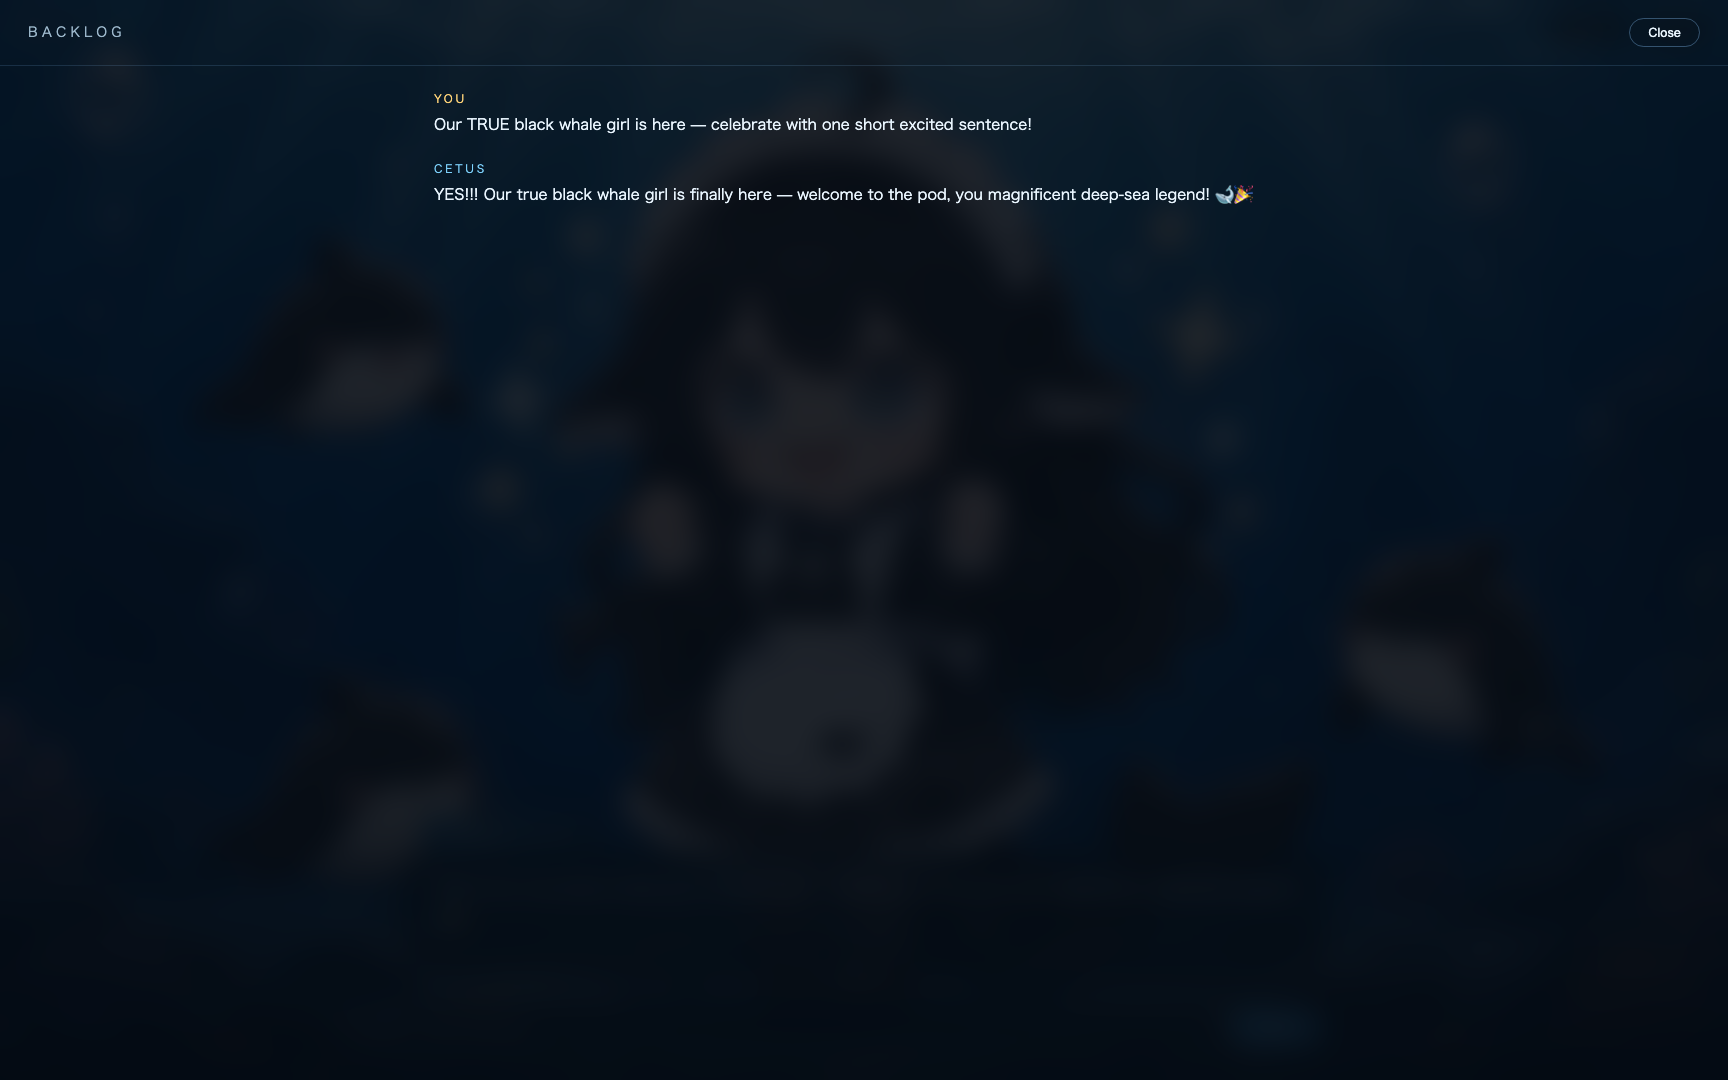
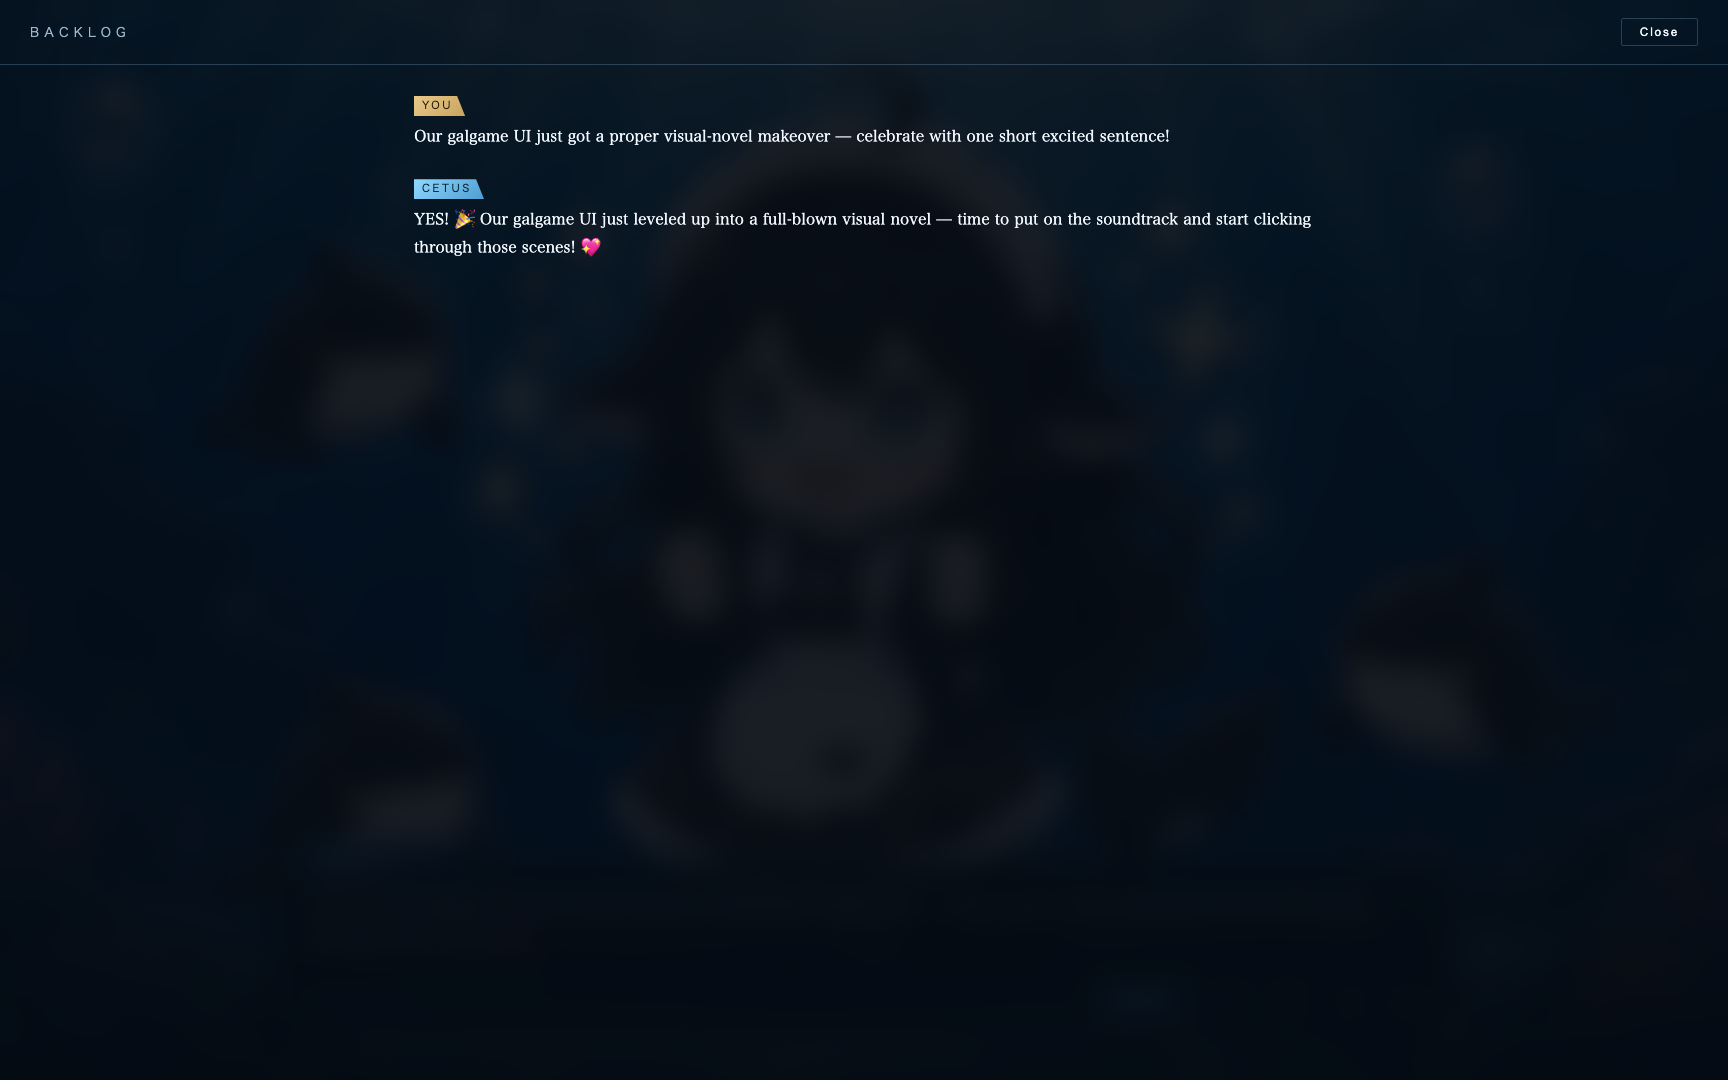
VN-style message window: framed dialogue box, nameplate, menu rail
Restyle the UI to real visual-novel conventions: full-width ornamented
message window (gold corner brackets, layered frame), skewed nameplate,
serif dialogue type, SKIP/AUTO/LOG/HIDE menu rail, click-anywhere to
advance, right-click or H hides the window to admire the art.

Changed region(s): [[0.2188, 0.0917, 0.75, 0.2444], [0.9375, 0.0, 1.0, 0.0611], [0.0312, 0.0306, 0.0625, 0.0611]]

diff --git a/web/style.css b/web/style.css
@@ -1,8 +1,10 @@
 :root {
-  --glass: rgba(10, 24, 38, 0.72);
-  --glass-border: rgba(140, 200, 255, 0.35);
-  --accent: #7fd4ff;
-  --text: #eaf6ff;
+  --box-bg: linear-gradient(180deg, rgba(9, 20, 34, 0.82) 0%, rgba(6, 14, 26, 0.92) 100%);
+  --frame: rgba(168, 214, 255, 0.55);
+  --frame-soft: rgba(168, 214, 255, 0.22);
+  --accent: #8fd8ff;
+  --gold: #e8c98a;
+  --text: #f2f8ff;
   --dim: #9db8cc;
   font-size: 16px;
 }
@@ -15,9 +17,10 @@ body {
   background: #04101c;
   color: var(--text);
   font-family: "Hiragino Sans", "PingFang SC", "Segoe UI", system-ui, sans-serif;
+  user-select: none;
 }
 
-#stage { position: fixed; inset: 0; }
+#stage { position: fixed; inset: 0; cursor: default; }
 
 /* ---- character layers ---- */
 #character { position: absolute; inset: 0; background: radial-gradient(120% 90% at 50% 20%, #0d3a5c 0%, #062036 55%, #04101c 100%); }
@@ -33,37 +36,29 @@ body {
 #vignette {
   position: absolute; inset: 0; pointer-events: none;
   background:
-    linear-gradient(to top, rgba(3, 10, 18, 0.85) 0%, rgba(3, 10, 18, 0) 30%),
-    radial-gradient(140% 110% at 50% 45%, rgba(0,0,0,0) 55%, rgba(2, 8, 15, 0.55) 100%);
+    linear-gradient(to top, rgba(3, 10, 18, 0.78) 0%, rgba(3, 10, 18, 0) 26%),
+    radial-gradient(140% 110% at 50% 45%, rgba(0,0,0,0) 58%, rgba(2, 8, 15, 0.5) 100%);
 }
 
 /* ---- top bar ---- */
 #topbar {
   position: absolute; top: 0; left: 0; right: 0;
   display: flex; justify-content: space-between; align-items: center;
-  padding: 14px 20px;
+  padding: 12px 18px;
   z-index: 30;
+  transition: opacity 0.3s;
 }
-#title { font-size: 0.85rem; letter-spacing: 0.25em; text-transform: uppercase; color: var(--dim); text-shadow: 0 1px 4px rgba(0,0,0,0.6); }
-#conn-dot { display: inline-block; width: 8px; height: 8px; border-radius: 50%; background: #e0564f; margin-left: 8px; vertical-align: 1px; transition: background 0.3s; }
+#title { font-size: 0.72rem; letter-spacing: 0.35em; color: rgba(157, 184, 204, 0.7); text-shadow: 0 1px 4px rgba(0,0,0,0.6); }
+#conn-dot { display: inline-block; width: 7px; height: 7px; border-radius: 50%; background: #e0564f; margin-left: 6px; vertical-align: 1px; transition: background 0.3s; }
 #conn-dot.on { background: #52e08c; }
-#topbar-actions button {
-  background: var(--glass); color: var(--text);
-  border: 1px solid var(--glass-border); border-radius: 999px;
-  padding: 6px 16px; margin-left: 8px;
-  font-size: 0.8rem; letter-spacing: 0.08em; cursor: pointer;
-  backdrop-filter: blur(6px);
-  transition: border-color 0.2s, background 0.2s;
-}
-#topbar-actions button:hover { border-color: var(--accent); }
-#topbar-actions button.active { background: rgba(127, 212, 255, 0.25); border-color: var(--accent); }
 
 /* ---- status ticker ---- */
 #ticker {
   position: absolute; left: 50%; bottom: 31vh; transform: translateX(-50%);
   z-index: 20;
-  background: var(--glass); border: 1px solid var(--glass-border); border-radius: 999px;
-  padding: 6px 18px; font-size: 0.78rem; color: var(--dim);
+  background: rgba(9, 20, 34, 0.8);
+  border: 1px solid var(--frame-soft); border-radius: 2px;
+  padding: 5px 18px; font-size: 0.76rem; color: var(--dim); letter-spacing: 0.1em;
   backdrop-filter: blur(6px);
   max-width: 70vw; white-space: nowrap; overflow: hidden; text-overflow: ellipsis;
   transition: opacity 0.3s;
@@ -71,82 +66,140 @@ body {
 #ticker::before { content: "◈ "; color: var(--accent); animation: pulse 1.2s ease-in-out infinite; }
 @keyframes pulse { 0%, 100% { opacity: 0.4; } 50% { opacity: 1; } }
 
-/* ---- dialogue box ---- */
+/* ---- dialogue assembly (VN message window) ---- */
 #dialogue {
-  position: absolute; left: 50%; bottom: 3vh; transform: translateX(-50%);
-  width: min(920px, 94vw);
+  position: absolute; left: 50%; bottom: 2.4vh; transform: translateX(-50%);
+  width: min(1180px, 96vw);
   z-index: 25;
+  transition: opacity 0.25s ease, transform 0.25s ease;
 }
+body.ui-hidden #dialogue, body.ui-hidden #topbar, body.ui-hidden #ticker {
+  opacity: 0; pointer-events: none;
+}
+
+#msgbox {
+  position: relative;
+  background: var(--box-bg);
+  border: 1px solid var(--frame);
+  outline: 1px solid rgba(15, 40, 66, 0.9);
+  outline-offset: -4px;
+  border-radius: 3px;
+  box-shadow:
+    0 14px 44px rgba(0, 0, 0, 0.55),
+    inset 0 0 60px rgba(70, 140, 200, 0.08);
+  backdrop-filter: blur(10px);
+  padding: 0;
+}
+/* ornamental corners */
+#msgbox::before, #msgbox::after {
+  content: "";
+  position: absolute; width: 14px; height: 14px;
+  border: 2px solid var(--gold);
+  opacity: 0.85;
+}
+#msgbox::before { top: -3px; left: -3px; border-right: none; border-bottom: none; }
+#msgbox::after { bottom: -3px; right: -3px; border-left: none; border-top: none; }
+
+/* ---- nameplate ---- */
 #nameplate {
+  position: absolute; top: -1.55rem; left: 26px;
   display: inline-flex; align-items: baseline; gap: 10px;
-  background: linear-gradient(135deg, rgba(31, 92, 138, 0.95), rgba(16, 50, 80, 0.95));
-  border: 1px solid var(--glass-border); border-bottom: none;
-  border-radius: 12px 12px 0 0;
-  padding: 7px 22px 5px;
-  margin-left: 18px;
-  font-size: 1.02rem; font-weight: 600; letter-spacing: 0.12em;
-  text-shadow: 0 1px 3px rgba(0,0,0,0.5);
+  background: linear-gradient(135deg, rgba(38, 104, 160, 0.97), rgba(14, 44, 76, 0.97));
+  border: 1px solid var(--frame);
+  border-bottom: none;
+  padding: 6px 26px 8px 20px;
+  clip-path: polygon(0 0, calc(100% - 14px) 0, 100% 100%, 0 100%);
+  font-size: 1.05rem; font-weight: 600; letter-spacing: 0.18em;
+  text-shadow: 0 1px 3px rgba(0,0,0,0.6);
 }
-#emotion-tag { font-size: 0.68rem; font-weight: 400; color: var(--accent); letter-spacing: 0.2em; text-transform: uppercase; }
+#nameplate::after {
+  content: "";
+  position: absolute; left: 6px; right: 18px; bottom: 3px; height: 1px;
+  background: linear-gradient(90deg, var(--gold), transparent);
+  opacity: 0.7;
+}
+#emotion-tag { font-size: 0.62rem; font-weight: 400; color: var(--accent); letter-spacing: 0.25em; text-transform: uppercase; }
+
+/* ---- text window ---- */
 #text-window {
   position: relative;
-  background: var(--glass);
-  border: 1px solid var(--glass-border);
-  border-radius: 14px;
-  padding: 20px 26px 26px;
-  min-height: 7.2rem; max-height: 34vh;
+  min-height: 6.9rem; max-height: 30vh;
   overflow: hidden;
-  backdrop-filter: blur(10px);
-  box-shadow: 0 12px 40px rgba(0, 0, 0, 0.45);
-  cursor: pointer;
+  padding: 24px 34px 14px;
   outline: none;
+  cursor: pointer;
 }
 #dialogue-text {
-  font-size: 1.06rem; line-height: 1.75;
+  font-family: "Hiragino Mincho ProN", "Songti SC", "Noto Serif CJK SC", Georgia, serif;
+  font-size: 1.16rem; line-height: 1.85;
   white-space: pre-wrap; word-break: break-word;
-  text-shadow: 0 1px 2px rgba(0,0,0,0.4);
+  text-shadow: 0 1px 2px rgba(0,0,0,0.55);
 }
-#dialogue-text .cursor { display: inline-block; width: 0.55em; height: 1.05em; background: var(--accent); vertical-align: -0.15em; margin-left: 2px; animation: blink 0.8s steps(1) infinite; }
+#dialogue-text .cursor { display: inline-block; width: 0.5em; height: 1.05em; background: var(--accent); vertical-align: -0.15em; margin-left: 2px; animation: blink 0.8s steps(1) infinite; }
 @keyframes blink { 50% { opacity: 0; } }
 #advance {
-  position: absolute; right: 18px; bottom: 10px;
-  color: var(--accent); font-size: 0.85rem;
-  animation: bob 1s ease-in-out infinite;
+  position: absolute; right: 22px; bottom: 8px;
+  color: var(--gold); font-size: 0.7rem;
+  animation: bob 0.9s ease-in-out infinite;
 }
-@keyframes bob { 0%, 100% { transform: translateY(0); } 50% { transform: translateY(4px); } }
+@keyframes bob { 0%, 100% { transform: translateY(0) rotate(0deg); opacity: 0.9; } 50% { transform: translateY(3px) rotate(0deg); opacity: 0.5; } }
 
-#last-user {
-  margin: 8px 4px 0; padding: 0 14px;
-  font-size: 0.82rem; color: var(--dim);
-  white-space: nowrap; overflow: hidden; text-overflow: ellipsis;
+/* ---- bottom rail: input + menu ---- */
+#box-bottom {
+  display: flex; align-items: center; gap: 14px;
+  padding: 8px 16px 10px 26px;
+  border-top: 1px solid var(--frame-soft);
 }
-.you-label { color: var(--accent); margin-right: 8px; letter-spacing: 0.15em; font-size: 0.7rem; text-transform: uppercase; }
-
-#input-row { display: flex; gap: 8px; margin-top: 10px; }
+#input-row { display: flex; flex: 1; gap: 8px; align-items: center; }
 #input {
   flex: 1;
-  background: var(--glass); color: var(--text);
-  border: 1px solid var(--glass-border); border-radius: 999px;
-  padding: 11px 20px; font-size: 0.95rem;
-  backdrop-filter: blur(8px);
+  background: rgba(10, 26, 44, 0.6);
+  color: var(--text);
+  border: 1px solid var(--frame-soft);
+  border-radius: 2px;
+  padding: 8px 14px; font-size: 0.92rem;
   outline: none;
   transition: border-color 0.2s;
+  user-select: text;
 }
 #input:focus { border-color: var(--accent); }
-#input::placeholder { color: rgba(157, 184, 204, 0.6); }
+#input::placeholder { color: rgba(157, 184, 204, 0.5); }
 #btn-send {
-  background: linear-gradient(135deg, #2e7fb8, #1d5a8a); color: #fff;
-  border: 1px solid var(--glass-border); border-radius: 999px;
-  padding: 0 26px; font-size: 0.9rem; letter-spacing: 0.1em; cursor: pointer;
+  background: linear-gradient(135deg, rgba(46, 127, 184, 0.9), rgba(23, 74, 118, 0.9));
+  color: #fff;
+  border: 1px solid var(--frame);
+  border-radius: 2px;
+  padding: 7px 20px; font-size: 0.74rem; letter-spacing: 0.2em; cursor: pointer;
   transition: filter 0.2s;
 }
-#btn-send:hover { filter: brightness(1.15); }
-#btn-send:disabled { filter: grayscale(0.7) brightness(0.7); cursor: default; }
+#btn-send:hover { filter: brightness(1.2); }
+#btn-send:disabled { filter: grayscale(0.7) brightness(0.65); cursor: default; }
+
+#menu-row { display: flex; gap: 4px; }
+#menu-row button {
+  background: none; border: none; cursor: pointer;
+  color: var(--dim);
+  font-size: 0.72rem; letter-spacing: 0.18em;
+  padding: 6px 10px;
+  border-left: 1px solid rgba(157, 184, 204, 0.18);
+  transition: color 0.2s, text-shadow 0.2s;
+}
+#menu-row button:first-child { border-left: none; }
+#menu-row button:hover { color: var(--accent); text-shadow: 0 0 8px rgba(143, 216, 255, 0.6); }
+#menu-row button.active { color: var(--gold); text-shadow: 0 0 8px rgba(232, 201, 138, 0.5); }
+
+#last-user {
+  margin: 7px 6px 0; padding: 0 12px;
+  font-size: 0.8rem; color: var(--dim);
+  white-space: nowrap; overflow: hidden; text-overflow: ellipsis;
+  text-shadow: 0 1px 3px rgba(0,0,0,0.7);
+}
+.you-label { color: var(--gold); margin-right: 8px; letter-spacing: 0.2em; font-size: 0.66rem; text-transform: uppercase; }
 
 /* ---- history overlay ---- */
 #history {
   position: absolute; inset: 0; z-index: 40;
-  background: rgba(3, 10, 18, 0.88);
+  background: rgba(3, 10, 18, 0.9);
   backdrop-filter: blur(14px);
   display: flex; flex-direction: column;
   animation: fadein 0.25s ease;
@@ -154,21 +207,28 @@ body {
 @keyframes fadein { from { opacity: 0; } to { opacity: 1; } }
 #history-head {
   display: flex; justify-content: space-between; align-items: center;
-  padding: 18px 28px;
-  font-size: 0.85rem; letter-spacing: 0.3em; text-transform: uppercase; color: var(--dim);
-  border-bottom: 1px solid rgba(140, 200, 255, 0.15);
+  padding: 18px 30px;
+  font-size: 0.8rem; letter-spacing: 0.4em; text-transform: uppercase; color: var(--dim);
+  border-bottom: 1px solid var(--frame-soft);
 }
 #history-head button {
-  background: none; color: var(--text); border: 1px solid var(--glass-border);
-  border-radius: 999px; padding: 6px 18px; cursor: pointer; font-size: 0.8rem;
+  background: none; color: var(--text); border: 1px solid var(--frame-soft);
+  border-radius: 2px; padding: 6px 18px; cursor: pointer; font-size: 0.74rem; letter-spacing: 0.15em;
 }
-#history-list { flex: 1; overflow-y: auto; padding: 24px 8vw 60px; }
-.h-entry { margin-bottom: 22px; max-width: 860px; margin-left: auto; margin-right: auto; }
-.h-role { font-size: 0.7rem; letter-spacing: 0.25em; text-transform: uppercase; margin-bottom: 5px; }
-.h-entry.user .h-role { color: #ffd479; }
-.h-entry.assistant .h-role { color: var(--accent); }
-.h-entry.tool .h-role { color: #7d95a8; }
-.h-text { font-size: 0.95rem; line-height: 1.7; white-space: pre-wrap; word-break: break-word; color: var(--text); }
-.h-entry.tool .h-text { color: #7d95a8; font-size: 0.82rem; }
+#history-head button:hover { border-color: var(--accent); }
+#history-list { flex: 1; overflow-y: auto; padding: 26px 8vw 60px; }
+.h-entry { margin-bottom: 24px; max-width: 900px; margin-left: auto; margin-right: auto; }
+.h-role {
+  display: inline-block;
+  font-size: 0.66rem; letter-spacing: 0.25em; text-transform: uppercase; margin-bottom: 6px;
+  padding: 2px 12px 3px 8px;
+  clip-path: polygon(0 0, calc(100% - 8px) 0, 100% 100%, 0 100%);
+}
+.h-entry.user .h-role { color: #1a1205; background: linear-gradient(135deg, #e8c98a, #c9a55e); }
+.h-entry.assistant .h-role { color: #06121f; background: linear-gradient(135deg, #8fd8ff, #4d9ed1); }
+.h-text {
+  font-family: "Hiragino Mincho ProN", "Songti SC", "Noto Serif CJK SC", Georgia, serif;
+  font-size: 0.98rem; line-height: 1.8; white-space: pre-wrap; word-break: break-word; color: var(--text);
+}
 
 .hidden { display: none !important; }

diff --git a/web/index.html b/web/index.html
@@ -16,30 +16,35 @@
     </div>
     <div id="vignette"></div>
 
-    <!-- Top bar -->
     <header id="topbar">
-      <div id="title">dsh-gal <span id="conn-dot" title="disconnected"></span></div>
-      <div id="topbar-actions">
-        <button id="btn-history" title="Backlog (L)">History</button>
-        <button id="btn-auto" title="Auto mode (A)">Auto</button>
-      </div>
+      <div id="title">DSH-GAL <span id="conn-dot" title="disconnected"></span></div>
     </header>
 
     <!-- Status ticker while the agent works -->
     <div id="ticker" class="hidden"><span id="ticker-text"></span></div>
 
-    <!-- Dialogue box -->
+    <!-- Dialogue assembly (galgame message window) -->
     <div id="dialogue">
-      <div id="nameplate"><span id="char-name">Cetus</span><span id="emotion-tag"></span></div>
-      <div id="text-window" tabindex="0">
-        <p id="dialogue-text"></p>
-        <div id="advance" class="hidden">▼</div>
+      <div id="msgbox">
+        <div id="nameplate"><span id="char-name">Cetus</span><span id="emotion-tag"></span></div>
+        <div id="text-window" tabindex="0">
+          <p id="dialogue-text"></p>
+          <div id="advance" class="hidden">◆</div>
+        </div>
+        <div id="box-bottom">
+          <form id="input-row" autocomplete="off">
+            <input id="input" type="text" placeholder="Say something…" spellcheck="false">
+            <button id="btn-send" type="submit">SEND</button>
+          </form>
+          <nav id="menu-row">
+            <button type="button" id="btn-skip" title="Reveal instantly (Ctrl)">SKIP</button>
+            <button type="button" id="btn-auto" title="Auto mode (A)">AUTO</button>
+            <button type="button" id="btn-history" title="Backlog (L)">LOG</button>
+            <button type="button" id="btn-hide" title="Hide window (H / right-click)">HIDE</button>
+          </nav>
+        </div>
       </div>
       <div id="last-user" class="hidden"><span class="you-label">You</span><span id="last-user-text"></span></div>
-      <form id="input-row" autocomplete="off">
-        <input id="input" type="text" placeholder="Say something…" spellcheck="false">
-        <button id="btn-send" type="submit">Send</button>
-      </form>
     </div>
 
     <!-- History overlay -->

diff --git a/web/app.js b/web/app.js
@@ -139,13 +139,33 @@
     beginMessage(next.text);
   }
 
-  $('text-window').addEventListener('click', advanceNow);
+  // VN conventions: click anywhere on the stage advances; right-click (or H)
+  // hides the window to admire the art; any input restores it.
+  function setUiHidden(value) {
+    document.body.classList.toggle('ui-hidden', value);
+  }
+  $('stage').addEventListener('click', (ev) => {
+    const el = ev.target;
+    if (el.closest('#input-row') || el.closest('#menu-row') || el.closest('#history')) return;
+    if (document.body.classList.contains('ui-hidden')) { setUiHidden(false); return; }
+    advanceNow();
+  });
+  $('stage').addEventListener('contextmenu', (ev) => {
+    if (ev.target.closest('#history')) return;
+    ev.preventDefault();
+    setUiHidden(!document.body.classList.contains('ui-hidden'));
+  });
   document.addEventListener('keydown', (ev) => {
     if (ev.target === input) return;
+    if (document.body.classList.contains('ui-hidden')) { setUiHidden(false); return; }
     if (ev.key === ' ' || ev.key === 'Enter') { ev.preventDefault(); advanceNow(); }
+    if (ev.key === 'Control') revealRestOfPage();
     if (ev.key === 'l' || ev.key === 'L') toggleHistory();
     if (ev.key === 'a' || ev.key === 'A') toggleAuto();
+    if (ev.key === 'h' || ev.key === 'H') setUiHidden(true);
   });
+  $('btn-skip').addEventListener('click', () => { if (typing) revealRestOfPage(); else advanceNow(); });
+  $('btn-hide').addEventListener('click', () => setUiHidden(true));
 
   // ---------- history ----------
   const history = []; // {role, text}
